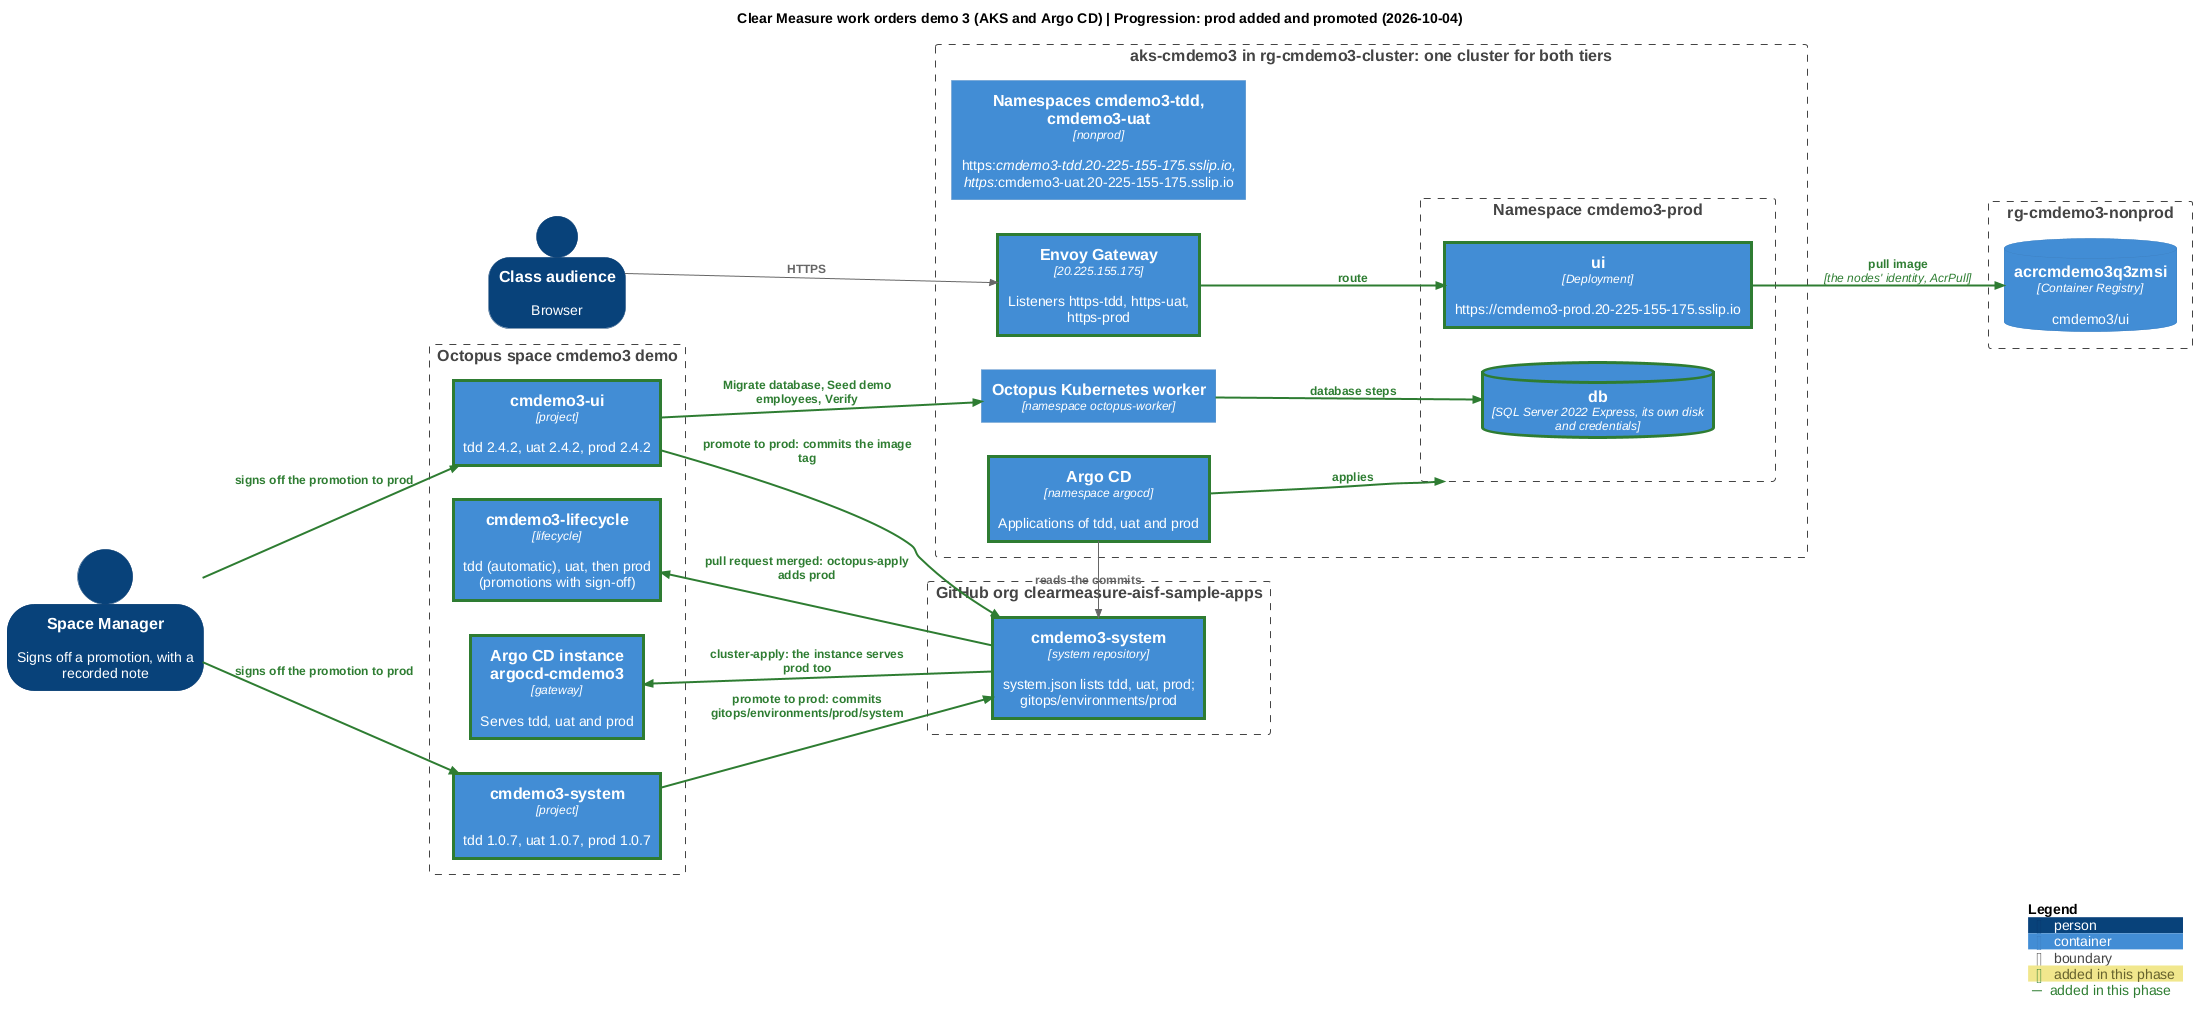
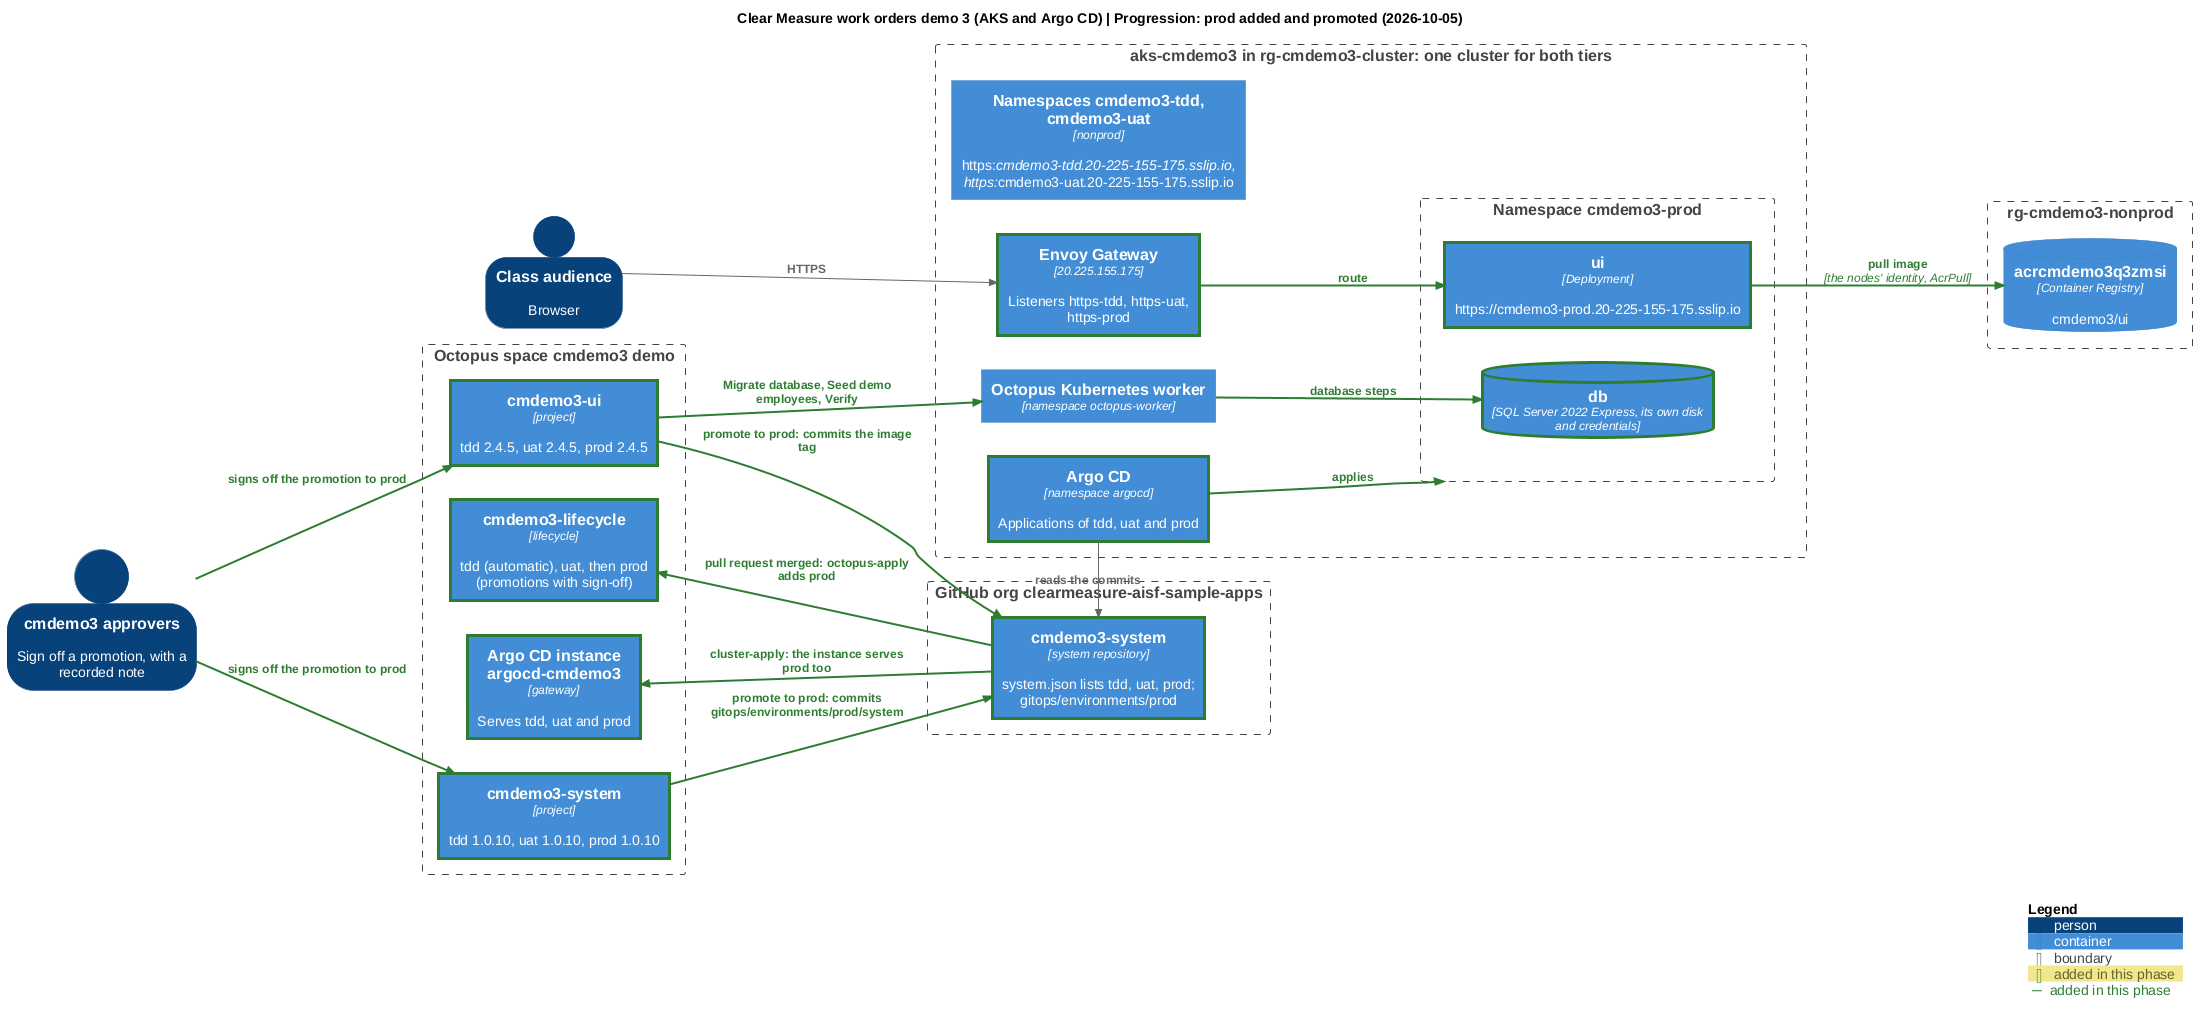
Architecture diagrams: phase 06 (#16)
Transitional architecture after phase 06 of the demo-environment skill (docs/architecture/). Documentation only: the system workflow ignores docs/.

diff --git a/docs/architecture/README.md b/docs/architecture/README.md
@@ -52,8 +52,8 @@ Source: [04a-app-in-tdd.puml](04a-app-in-tdd.puml)
 
 Source: [05-uat-environment.puml](05-uat-environment.puml)
 
-## Progression: prod added and promoted (2026-10-04)
+## Progression: prod added and promoted (2026-10-05)
 
-![Progression: prod added and promoted (2026-10-04)](06-prod-environment.png)
+![Progression: prod added and promoted (2026-10-05)](06-prod-environment.png)
 
 Source: [06-prod-environment.puml](06-prod-environment.puml)
